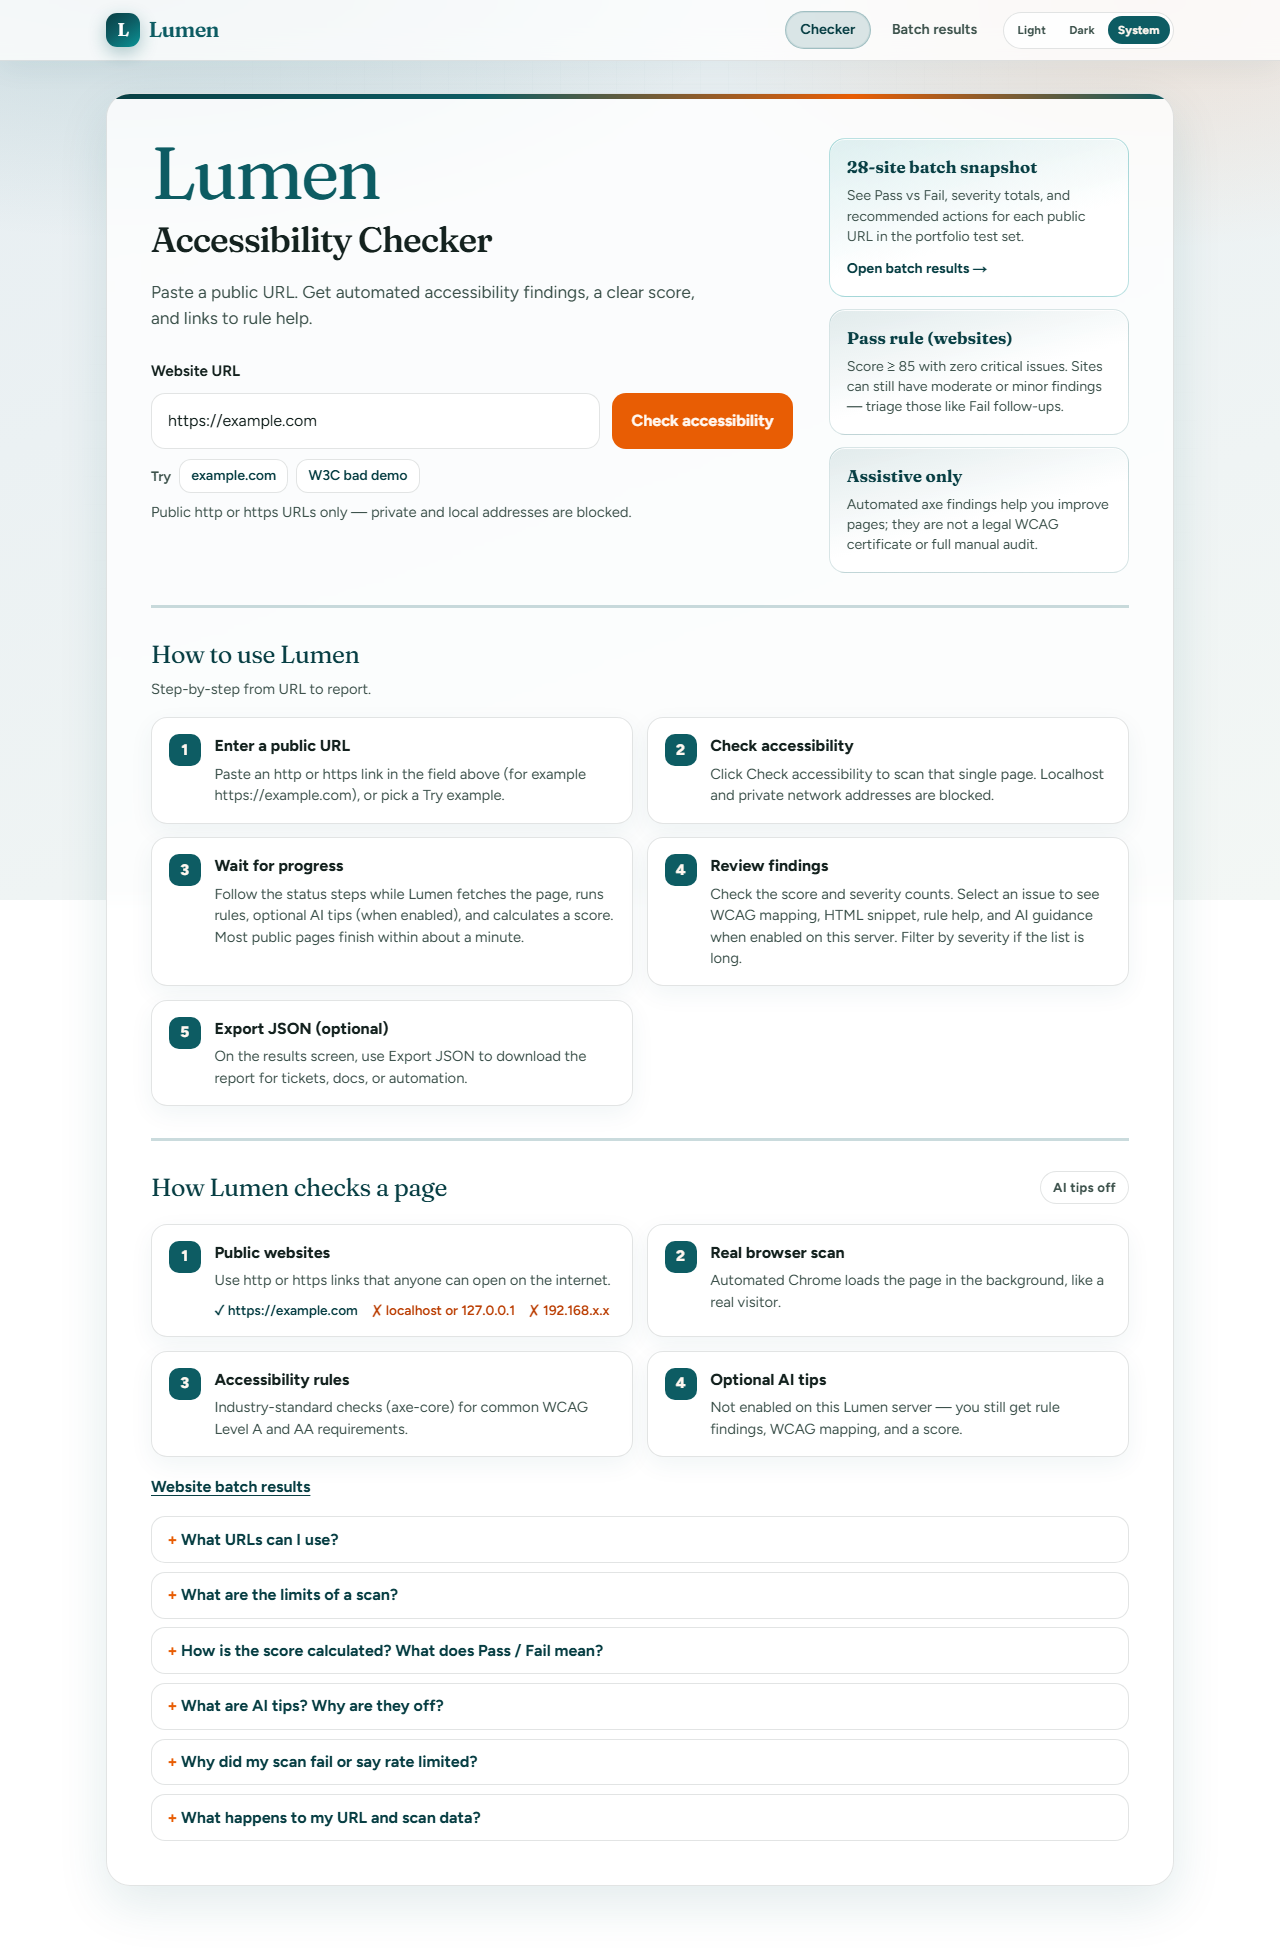
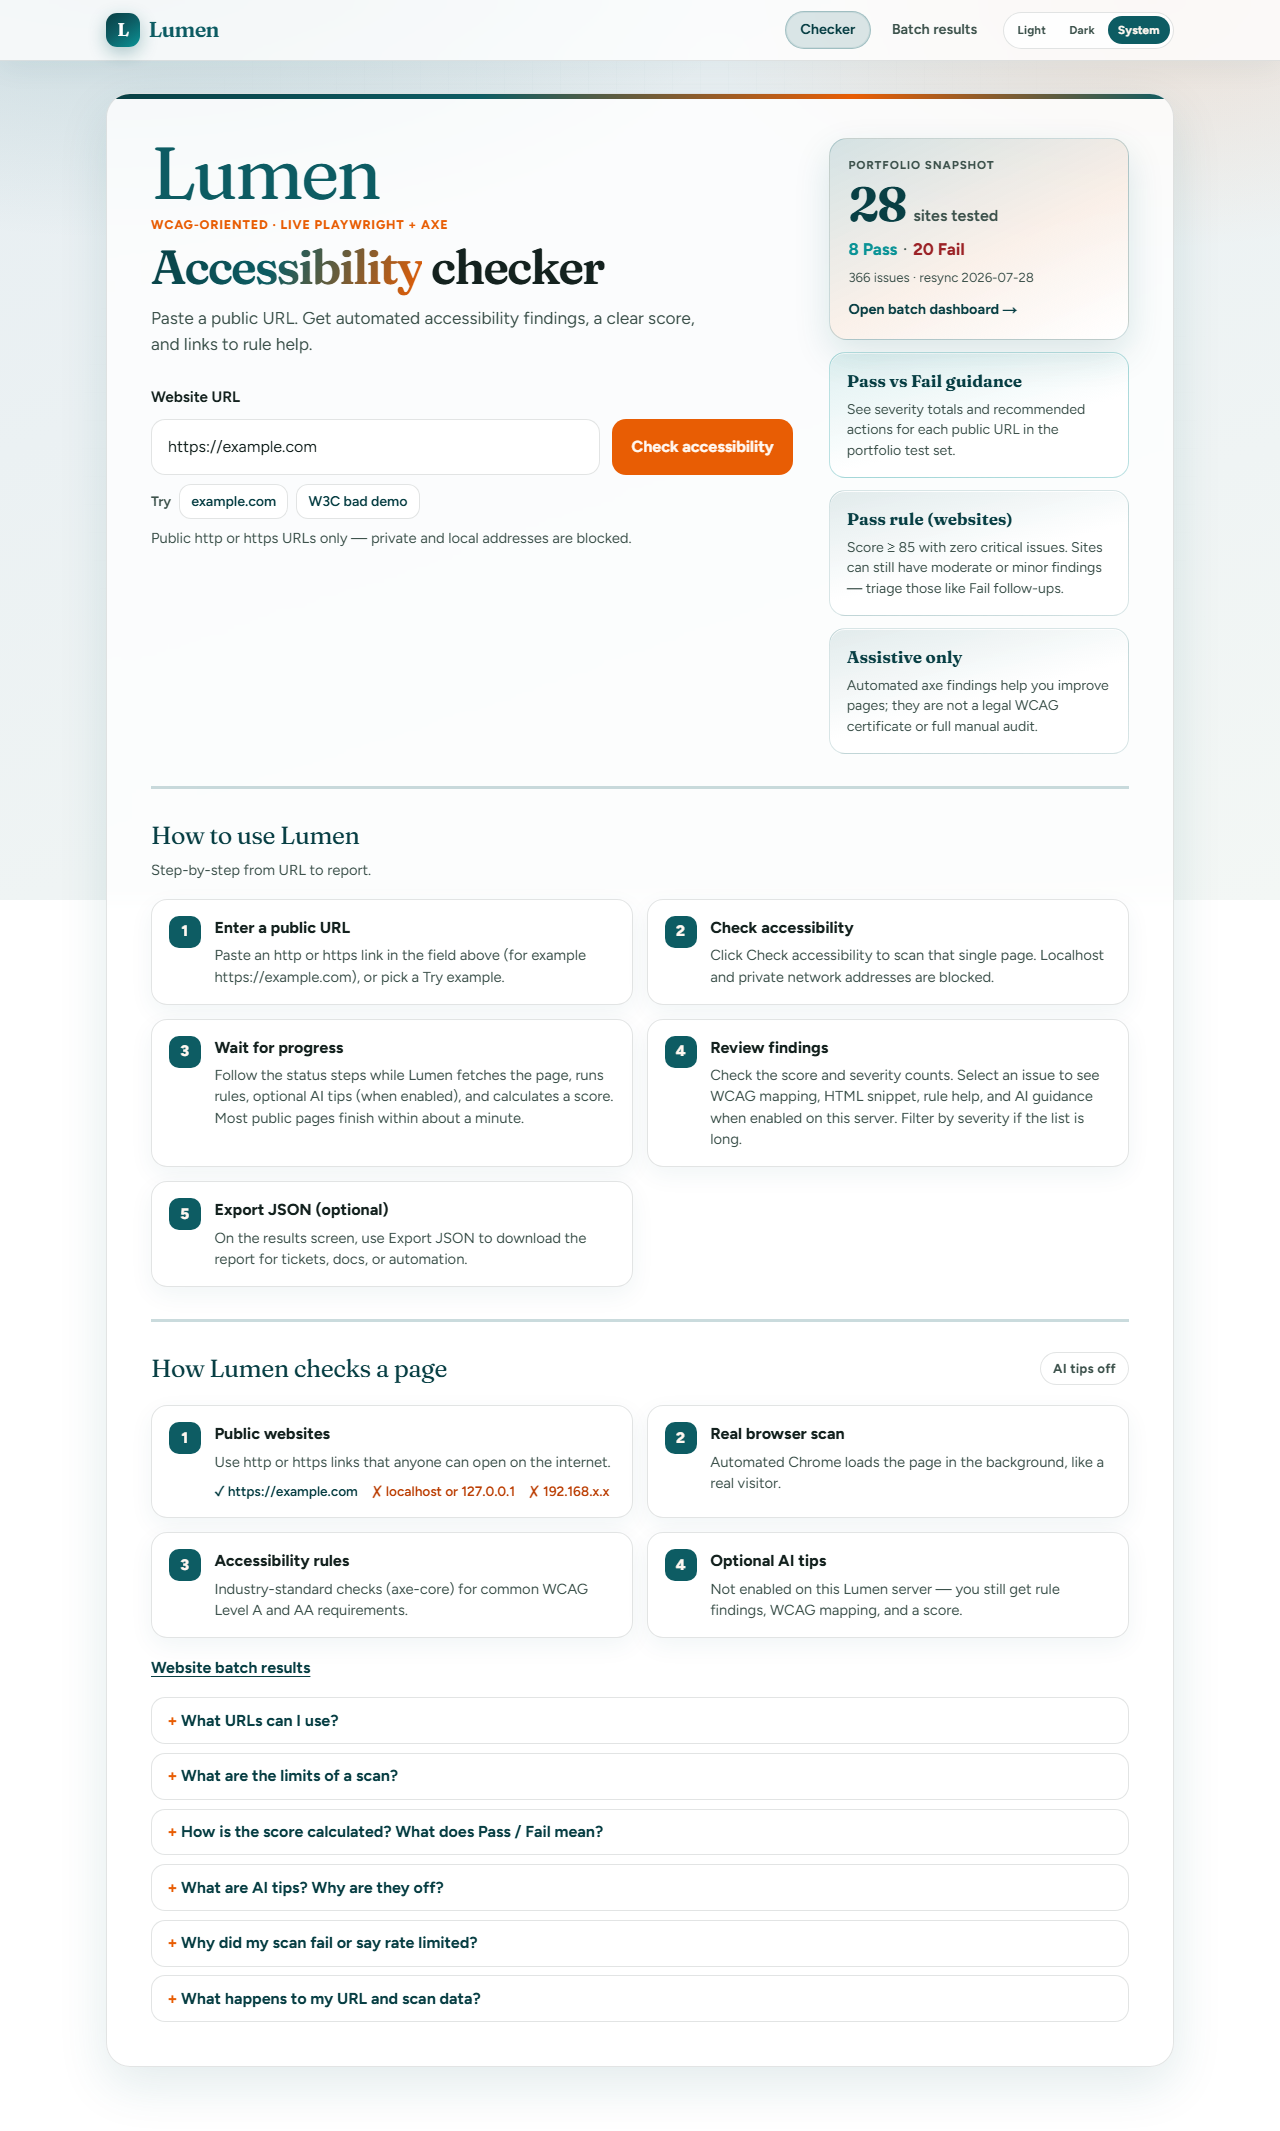
Polish hero visuals, batch stat card, and scan motion
Gradient headline, portfolio snapshot sidebar from batch summary, enhanced progress and score animations with reduced-motion fallbacks, and updated home README screenshots.

diff --git a/web/src/app/globals.css b/web/src/app/globals.css
@@ -444,6 +444,127 @@ html[data-theme="system"] .site-nav-link.is-active {
   letter-spacing: -0.03em;
 }
 
+.hero-eyebrow {
+  margin: 0.5rem 0 0;
+  font-size: 0.78rem;
+  font-weight: 750;
+  letter-spacing: 0.07em;
+  text-transform: uppercase;
+  color: var(--accent);
+}
+
+.headline-hero {
+  margin-top: 0.45rem;
+  font-size: clamp(2rem, 5.5vw, 3rem);
+  font-weight: 620;
+  line-height: 1.05;
+  letter-spacing: -0.04em;
+  max-width: 14ch;
+}
+
+.headline-accent {
+  display: inline;
+  background: linear-gradient(
+    115deg,
+    var(--brand-deep) 0%,
+    var(--brand) 45%,
+    var(--accent) 100%
+  );
+  -webkit-background-clip: text;
+  background-clip: text;
+  color: transparent;
+}
+
+.hero-stat-card {
+  margin: 0;
+  padding: 1.1rem 1.15rem;
+  border-radius: 18px;
+  border: 1px solid rgba(13, 92, 99, 0.22);
+  background: linear-gradient(
+    155deg,
+    rgba(13, 92, 99, 0.16),
+    rgba(232, 93, 4, 0.08) 55%,
+    var(--surface-solid) 100%
+  );
+  box-shadow: 0 14px 36px rgba(13, 92, 99, 0.14);
+  animation: rise 560ms ease 80ms both;
+}
+
+.hero-stat-kicker {
+  margin: 0;
+  font-size: 0.72rem;
+  font-weight: 750;
+  letter-spacing: 0.08em;
+  text-transform: uppercase;
+  color: var(--ink-soft);
+}
+
+.hero-stat-value {
+  margin: 0.35rem 0 0;
+  display: flex;
+  flex-wrap: wrap;
+  align-items: baseline;
+  gap: 0.35rem 0.5rem;
+  line-height: 1;
+}
+
+.hero-stat-num {
+  font-family: var(--font-display);
+  font-size: clamp(2.4rem, 6vw, 3rem);
+  font-weight: 650;
+  letter-spacing: -0.04em;
+  color: var(--brand-deep);
+}
+
+.hero-stat-unit {
+  font-size: 1rem;
+  font-weight: 650;
+  color: var(--ink-soft);
+}
+
+.hero-stat-split {
+  margin: 0.55rem 0 0;
+  font-size: 1.05rem;
+  font-weight: 750;
+  display: flex;
+  flex-wrap: wrap;
+  align-items: center;
+  gap: 0.35rem;
+}
+
+.hero-stat-pass {
+  color: #0a9396;
+}
+
+.hero-stat-fail {
+  color: var(--critical);
+}
+
+.hero-stat-sep {
+  color: var(--ink-soft);
+  font-weight: 500;
+}
+
+.hero-stat-meta {
+  margin: 0.45rem 0 0;
+  font-size: 0.82rem;
+  color: var(--ink-soft);
+  line-height: 1.4;
+}
+
+.hero-stat-link {
+  display: inline-flex;
+  margin-top: 0.75rem;
+  font-weight: 700;
+  font-size: 0.9rem;
+  text-decoration: none;
+}
+
+.hero-stat-link:hover {
+  text-decoration: underline;
+  text-underline-offset: 3px;
+}
+
 .lede {
   margin: 0 0 1.75rem;
   max-width: 36rem;
@@ -845,29 +966,84 @@ html[data-theme="system"] .site-nav-link.is-active {
 }
 
 .progress-track {
-  height: 8px;
+  height: 10px;
   border-radius: 999px;
   background: rgba(13, 92, 99, 0.12);
   overflow: hidden;
+  position: relative;
+}
+
+.progress-track-active {
+  box-shadow: inset 0 0 0 1px rgba(13, 92, 99, 0.08);
+}
+
+.progress-track-active::before {
+  content: "";
+  position: absolute;
+  inset: 0;
+  background: linear-gradient(
+    90deg,
+    transparent,
+    rgba(255, 255, 255, 0.35),
+    transparent
+  );
+  animation: progress-track-shimmer 2.4s ease-in-out infinite;
+  pointer-events: none;
 }
 
 .progress-bar {
   height: 100%;
-  width: 40%;
+  width: 45%;
   border-radius: inherit;
-  background: linear-gradient(90deg, var(--brand), var(--accent));
-  animation: slide 1.2s ease-in-out infinite;
+  background: linear-gradient(90deg, var(--brand), var(--accent), var(--brand));
+  background-size: 200% 100%;
+  animation:
+    progress-slide 1.35s ease-in-out infinite,
+    progress-glow 2s ease-in-out infinite,
+    progress-bg-shift 3s linear infinite;
+  box-shadow: 0 0 14px rgba(232, 93, 4, 0.35);
 }
 
-@keyframes slide {
+@keyframes progress-slide {
   0% {
-    transform: translateX(-20%);
+    transform: translateX(-25%);
   }
   50% {
-    transform: translateX(140%);
+    transform: translateX(155%);
   }
   100% {
-    transform: translateX(-20%);
+    transform: translateX(-25%);
+  }
+}
+
+@keyframes progress-glow {
+  0%,
+  100% {
+    filter: brightness(1);
+  }
+  50% {
+    filter: brightness(1.15);
+  }
+}
+
+@keyframes progress-bg-shift {
+  0% {
+    background-position: 0% 50%;
+  }
+  100% {
+    background-position: 200% 50%;
+  }
+}
+
+@keyframes progress-track-shimmer {
+  0%,
+  100% {
+    opacity: 0.2;
+    transform: translateX(-30%);
+  }
+  50% {
+    opacity: 0.55;
+    transform: translateX(30%);
   }
 }
 
@@ -954,6 +1130,45 @@ html[data-theme="system"] .site-nav-link.is-active {
   background: rgba(13, 92, 99, 0.08);
   border: 1px solid var(--line);
   animation: rise 520ms ease both;
+}
+
+.score-block.score-animate-in {
+  animation:
+    rise 520ms ease both,
+    score-pop 720ms cubic-bezier(0.34, 1.35, 0.64, 1) 100ms both;
+}
+
+.score-block.score-animate-in .score-value {
+  animation: score-digit-rise 650ms cubic-bezier(0.22, 1, 0.36, 1) 180ms both;
+}
+
+.score-block.score-animate-in .score-rating {
+  animation: score-digit-rise 500ms ease 320ms both;
+}
+
+@keyframes score-pop {
+  0% {
+    transform: scale(0.88);
+    opacity: 0.5;
+  }
+  65% {
+    transform: scale(1.04);
+  }
+  100% {
+    transform: scale(1);
+    opacity: 1;
+  }
+}
+
+@keyframes score-digit-rise {
+  from {
+    transform: translateY(10px);
+    opacity: 0;
+  }
+  to {
+    transform: translateY(0);
+    opacity: 1;
+  }
 }
 
 .score-value {
@@ -1424,6 +1639,23 @@ pre {
   .progress-bar {
     animation: none;
     width: 55%;
+    filter: none;
+    box-shadow: none;
+  }
+
+  .progress-track-active::before {
+    animation: none;
+    opacity: 0;
+  }
+
+  .score-block.score-animate-in,
+  .score-block.score-animate-in .score-value,
+  .score-block.score-animate-in .score-rating {
+    animation: none;
+  }
+
+  .hero-stat-card {
+    animation: none;
   }
 
   .scan-step-active .scan-step-marker {

diff --git a/web/src/app/ScanExperience.tsx b/web/src/app/ScanExperience.tsx
@@ -11,6 +11,10 @@ import {
   websiteBatchFailReason,
   websiteBatchPass,
 } from "@/lib/website-pass-fail";
+import {
+  BATCH_SNAPSHOT_DATE,
+  WEBSITE_BATCH_SUMMARY,
+} from "@/lib/website-batch-results";
 
 type Phase = "idle" | "submitting" | "scanning" | "results" | "error";
 
@@ -289,8 +293,9 @@ export function ScanExperience() {
           <div className="hero-grid">
             <div className="hero-primary">
           <p className="brand">Lumen</p>
-          <h1 id="hero-heading" className="headline">
-            Accessibility Checker
+          <p className="hero-eyebrow">WCAG-oriented · live Playwright + axe</p>
+          <h1 id="hero-heading" className="headline headline-hero">
+            <span className="headline-accent">Accessibility</span> checker
           </h1>
           <p className="lede">
             Paste a public URL. Get automated accessibility findings, a clear
@@ -373,15 +378,42 @@ export function ScanExperience() {
             </div>
 
             <aside className="hero-aside" aria-label="Quick links">
-              <div className="hero-spotlight hero-spotlight-pass">
-                <strong>28-site batch snapshot</strong>
-                <p>
-                  See Pass vs Fail, severity totals, and recommended actions for
-                  each public URL in the portfolio test set.
+              <div
+                className="hero-stat-card"
+                aria-label={`Batch snapshot: ${WEBSITE_BATCH_SUMMARY.tested} sites, ${WEBSITE_BATCH_SUMMARY.passed} pass, ${WEBSITE_BATCH_SUMMARY.failed} fail`}
+              >
+                <p className="hero-stat-kicker">Portfolio snapshot</p>
+                <p className="hero-stat-value">
+                  <span className="hero-stat-num">
+                    {WEBSITE_BATCH_SUMMARY.tested}
+                  </span>
+                  <span className="hero-stat-unit">sites tested</span>
                 </p>
-                <Link href="/batch" className="hero-spotlight-link">
-                  Open batch results →
+                <p className="hero-stat-split">
+                  <span className="hero-stat-pass">
+                    {WEBSITE_BATCH_SUMMARY.passed} Pass
+                  </span>
+                  <span className="hero-stat-sep" aria-hidden="true">
+                    ·
+                  </span>
+                  <span className="hero-stat-fail">
+                    {WEBSITE_BATCH_SUMMARY.failed} Fail
+                  </span>
+                </p>
+                <p className="hero-stat-meta">
+                  {WEBSITE_BATCH_SUMMARY.totalIssues} issues · resync{" "}
+                  {BATCH_SNAPSHOT_DATE}
+                </p>
+                <Link href="/batch" className="hero-stat-link">
+                  Open batch dashboard →
                 </Link>
+              </div>
+              <div className="hero-spotlight hero-spotlight-pass">
+                <strong>Pass vs Fail guidance</strong>
+                <p>
+                  See severity totals and recommended actions for each public
+                  URL in the portfolio test set.
+                </p>
               </div>
               <div className="hero-spotlight">
                 <strong>Pass rule (websites)</strong>
@@ -525,7 +557,7 @@ export function ScanExperience() {
               effectiveScanStatus(scan.status, aiTipsEnabled)
             ] ?? scan.status}
           </p>
-          <div className="progress-track" aria-hidden="true">
+          <div className="progress-track progress-track-active" aria-hidden="true">
             <div className="progress-bar" />
           </div>
           <ol className="scan-steps">
@@ -575,7 +607,7 @@ export function ScanExperience() {
               </p>
             </div>
             <div
-              className={`score-block score-${rating.tone}`}
+              className={`score-block score-${rating.tone} score-animate-in`}
               aria-label={`Accessibility score ${scan.score}, ${rating.label}`}
             >
               <p className="score-value">{scan.score}</p>
